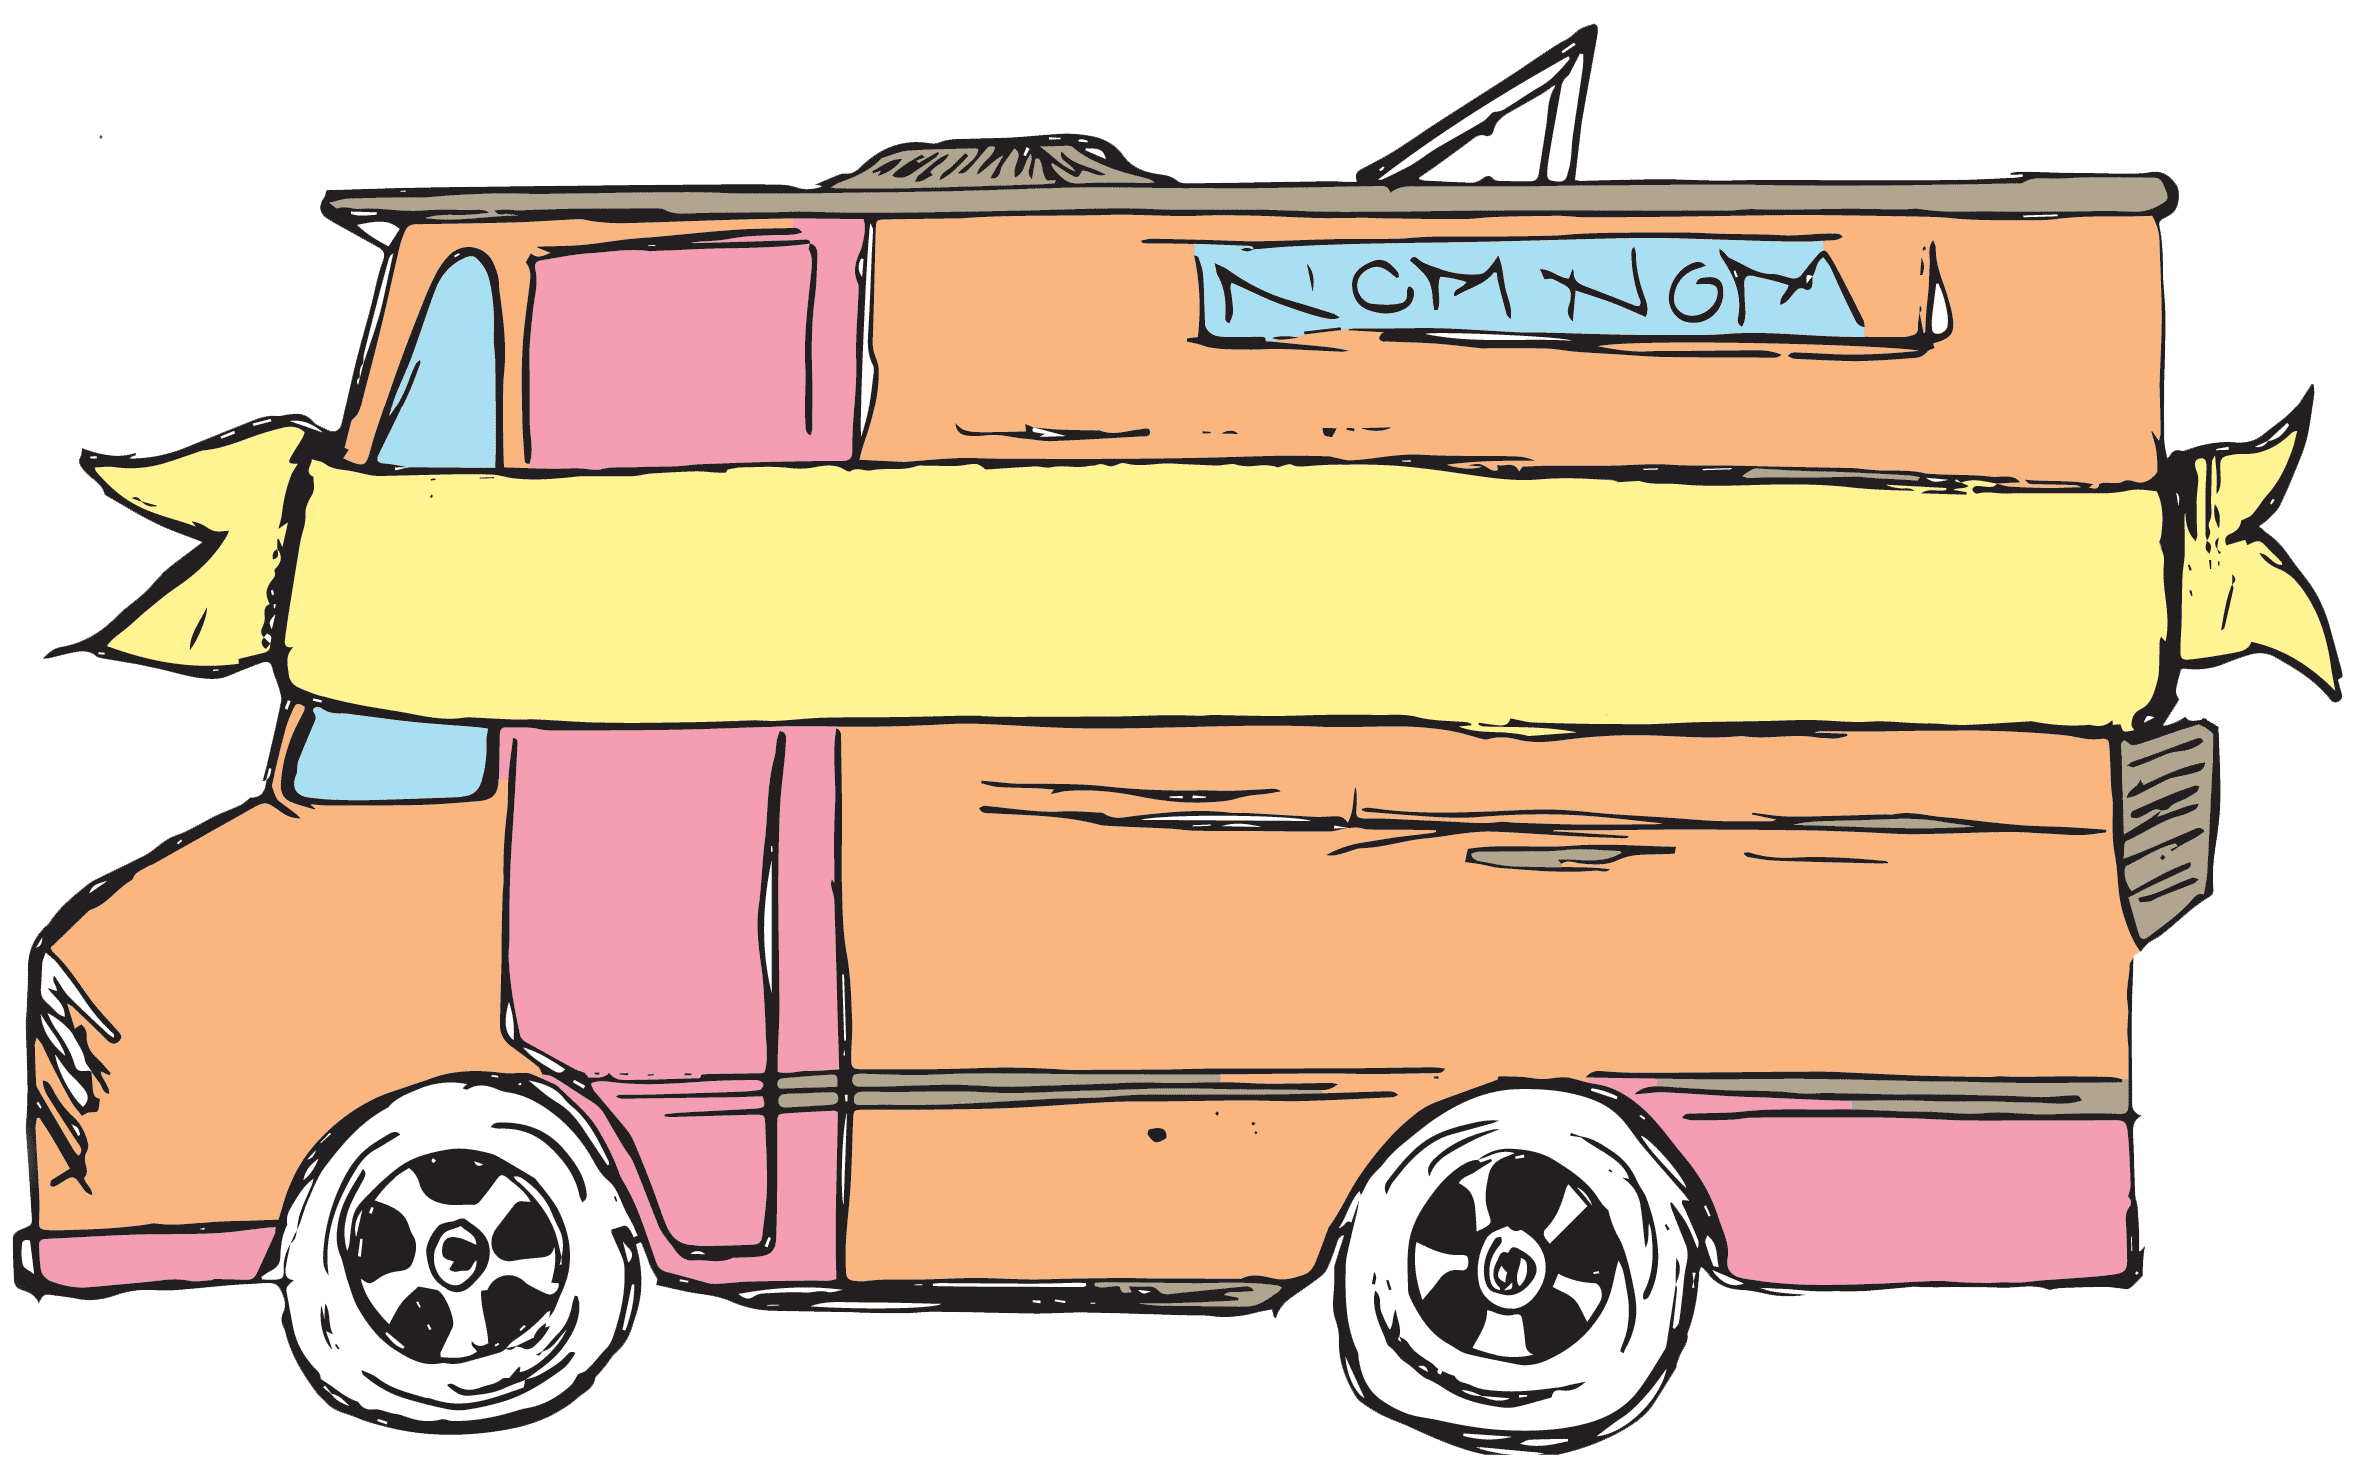
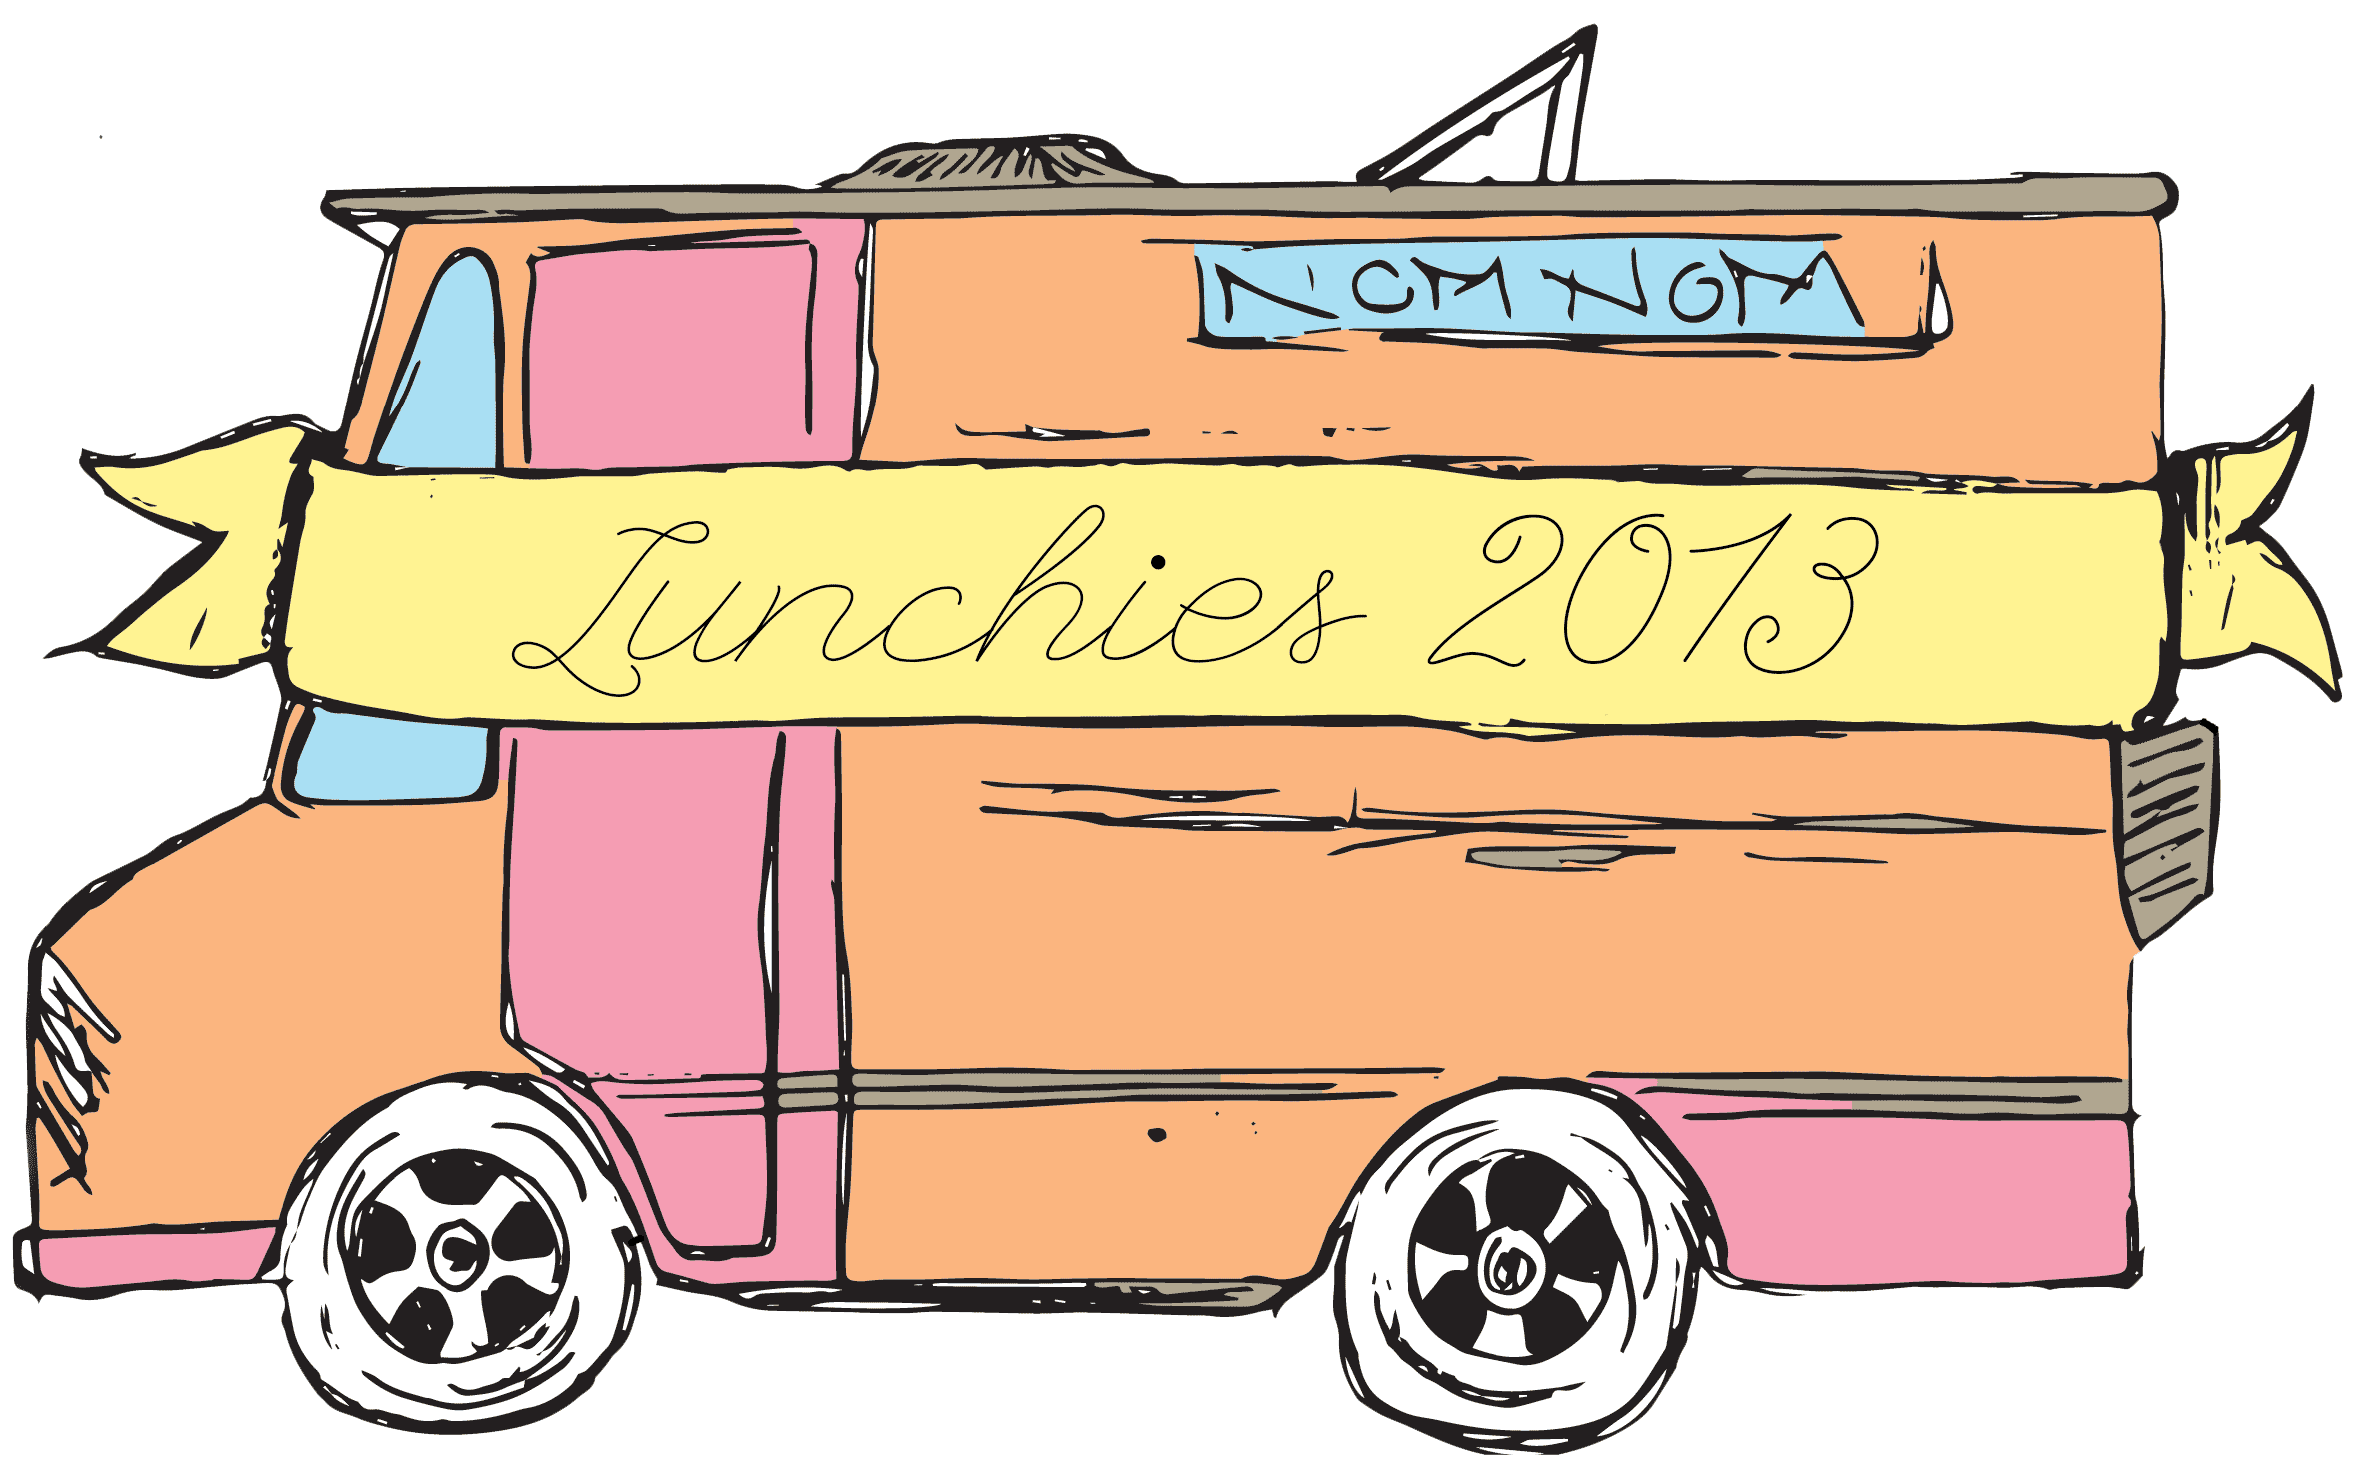
modify truck image to include title, hide title h1

diff --git a/header-lunchies-2013.php b/header-lunchies-2013.php
@@ -57,12 +57,10 @@
 
 			<header class="page-header" role="banner">
 
-				<div class="page-header__brand">
-					<h1 class="page-header__brand__title">Lunchies 2013</h1>
+				<h2 class="page-header__presents">The Temple News Presents</h2>
 
-					<div class="page-header__brand__presents">
-						<h2>The Temple News Presents</h2>
-					</div>
+				<div class="page-header__brand">
+					<h1 class="page-header__brand__title  accessibility">Lunchies 2013</h1>
 
 					<div class="page-header__brand__image">
 						<img src="<?php echo get_template_directory_uri(); ?>/library/images/lunchies-2013-large.png" alt="A hand-drawn food truck in autumnal pastel colors with a yellow banner." title="Lunchies 2013 Truck" />
